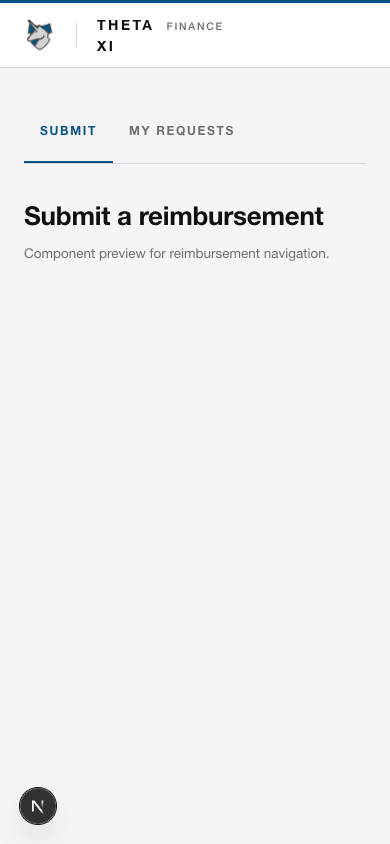
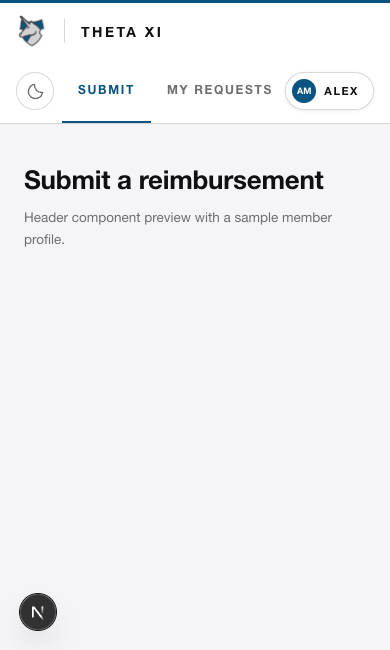
Move reimbursement tabs beside the profile control

diff --git a/components/auth/auth-pill.tsx b/components/auth/auth-pill.tsx
@@ -5,6 +5,7 @@ import { useEffect, useRef, useState } from "react";
 
 import { GoogleOneTap } from "@/components/auth/google-one-tap";
 import { GoogleSignInButton } from "@/components/auth/google-sign-in-button";
+import { MemberNavigation } from "@/components/reimbursements/member-navigation";
 import { SiteHomeIcon } from "@/components/site-home-icon";
 import { ThemeToggle } from "@/components/theme-toggle";
 import { userLabel } from "@/lib/reimbursements/user-label";
@@ -18,6 +19,7 @@ export type AuthPillSession = {
 
 export type AuthPillProps = {
   memberSite?: boolean;
+  showPolicy?: boolean;
   session: AuthPillSession | null;
 };
 
@@ -189,7 +191,8 @@ function SignOutPill({ session }: { session: AuthPillSession }) {
   );
 }
 
-export function AuthPill({ memberSite = false, session }: AuthPillProps) {
+export function AuthPill({ memberSite = false, showPolicy = false, session }: AuthPillProps) {
+  const hasMemberNavigation = memberSite && (session?.role === "member" || session?.role === "admin");
   // Assume One Tap will show until it reports otherwise, so the fallback
   // button doesn't flash before Google's island appears.
   const [oneTapVisible, setOneTapVisible] = useState(true);
@@ -199,7 +202,7 @@ export function AuthPill({ memberSite = false, session }: AuthPillProps) {
     <header
       className={
         memberSite
-          ? "account-controls z-50 border-t-[3px] border-t-brand px-4 py-3"
+          ? "account-controls z-50 border-t-[3px] border-t-brand px-4"
           : "pointer-events-none absolute inset-x-0 top-4 z-50 px-6"
       }
       style={{
@@ -207,15 +210,16 @@ export function AuthPill({ memberSite = false, session }: AuthPillProps) {
       }}
     >
       <div className={memberSite
-        ? "mx-auto flex min-h-[38px] w-full max-w-[1080px] items-center justify-between gap-4"
+        ? "mx-auto flex min-h-[64px] w-full max-w-[1080px] flex-wrap items-center justify-between gap-x-4 sm:flex-nowrap"
         : "pointer-events-none mx-auto flex w-full max-w-[1080px] items-center justify-end gap-3"
       }>
-        {memberSite ? <MemberSiteBrand /> : null}
+        {memberSite ? <div className="py-3"><MemberSiteBrand /></div> : null}
         <div className={memberSite
-          ? "flex items-start justify-end gap-2"
+          ? `flex min-w-0 items-center justify-end gap-2 ${hasMemberNavigation ? "w-full sm:w-auto" : ""}`
           : "pointer-events-auto flex items-start justify-end gap-2"
         }>
           <ThemeToggle />
+          {hasMemberNavigation ? <MemberNavigation showPolicy={showPolicy} /> : null}
           {session === null ? (
             <>
               <GoogleOneTap onVisibilityChange={setOneTapVisible} onError={setOneTapError} />

diff --git a/app/brand.css b/app/brand.css
@@ -77,15 +77,14 @@
 }
 
 @layer components {
-  [data-brand] .member-tabs {
+  .account-controls .member-tabs {
     display: flex;
+    min-width: 0;
     height: 64px;
     overflow-x: auto;
     overflow-y: hidden;
-    margin-bottom: 2rem;
-    border-bottom: 1px solid var(--color-rule);
   }
-  [data-brand] .member-tabs a {
+  .account-controls .member-tabs a {
     display: inline-flex;
     flex-shrink: 0;
     align-items: center;
@@ -95,16 +94,20 @@
     font-weight: 700;
     text-transform: uppercase;
     letter-spacing: 0.14em;
+    white-space: nowrap;
     color: var(--color-muted);
     transition: color 150ms, border-color 150ms;
   }
-  [data-brand] .member-tabs a:hover { color: var(--color-ink); }
-  [data-brand] .member-tabs a[aria-current="page"] {
+  .account-controls .member-tabs a:hover { color: var(--color-ink); }
+  .account-controls .member-tabs a[aria-current="page"] {
     color: var(--color-brand);
     border-bottom-color: var(--color-brand);
   }
+  .account-controls .member-tabs a:focus-visible {
+    outline: 2px solid var(--color-brand);
+    outline-offset: -4px;
+  }
   [data-brand] .brand-button:focus-visible,
-  [data-brand] .member-tabs a:focus-visible,
   [data-brand] .history-row:focus-visible {
     outline: 2px solid var(--color-brand);
     outline-offset: 4px;

diff --git a/components/reimbursements/member-navigation.tsx b/components/reimbursements/member-navigation.tsx
@@ -10,13 +10,14 @@ const memberRoutes = ["/", "/history"] as const;
 export function MemberNavigation({ showPolicy = false }: { showPolicy?: boolean }) {
   const pathname = usePathname();
   if (pathname.includes("/login") || pathname.includes("/auth/")) return null;
-  const history = pathname.includes("/history");
+  const policy = pathname === "/policy" || pathname.startsWith("/policy/");
+  const history = !policy && pathname.includes("/history");
   return (
     <nav aria-label="Reimbursements" className="member-tabs">
       <PrefetchRoutes hrefs={memberRoutes.filter((href) => href !== pathname)} />
-      <Link href="/" prefetch={false} aria-current={!history ? "page" : undefined}>Submit</Link>
+      <Link href="/" prefetch={false} aria-current={!history && !policy ? "page" : undefined}>Submit</Link>
       <Link href="/history" prefetch={false} aria-current={history ? "page" : undefined}>My requests</Link>
-      {showPolicy ? <Link href="/policy" prefetch={false}>Policy assistant</Link> : null}
+      {showPolicy ? <Link href="/policy" prefetch={false} aria-current={policy ? "page" : undefined}>Policy assistant</Link> : null}
     </nav>
   );
 }

diff --git a/app/submit/layout.tsx b/app/submit/layout.tsx
@@ -1,6 +1,5 @@
 import type { Metadata } from "next";
 
-import { MemberNavigation } from "@/components/reimbursements/member-navigation";
 import { ProtectedShell } from "@/components/auth/protected-shell";
 import { getSessionProfile } from "@/lib/reimbursements/auth";
 import { RefreshCurrentRoute } from "@/components/navigation/refresh-current-route";
@@ -24,7 +23,6 @@ export default async function SubmitLayout({ children }: { children: React.React
       <div data-brand className="min-h-screen">
         {hasMemberAccess ? <RefreshCurrentRoute /> : null}
         <main className="max-w-[720px] mx-auto px-6 py-8">
-          {hasMemberAccess ? <MemberNavigation showPolicy={process.env.POLICY_ASSISTANT_ENABLED === "true" && (session?.profile.role === "admin" || process.env.POLICY_ASSISTANT_MEMBERS_ENABLED === "true")} /> : null}
           {children}
         </main>
       </div>

diff --git a/components/auth/protected-shell.tsx b/components/auth/protected-shell.tsx
@@ -24,10 +24,12 @@ export async function ProtectedShell({
         role: session.profile.role,
       }
     : null;
+  const showPolicy = process.env.POLICY_ASSISTANT_ENABLED === "true" &&
+    (session?.profile.role === "admin" || process.env.POLICY_ASSISTANT_MEMBERS_ENABLED === "true");
 
   return (
     <>
-      <AuthPill memberSite={memberSite} session={pillSession} />
+      <AuthPill memberSite={memberSite} session={pillSession} showPolicy={showPolicy} />
       {children}
     </>
   );
